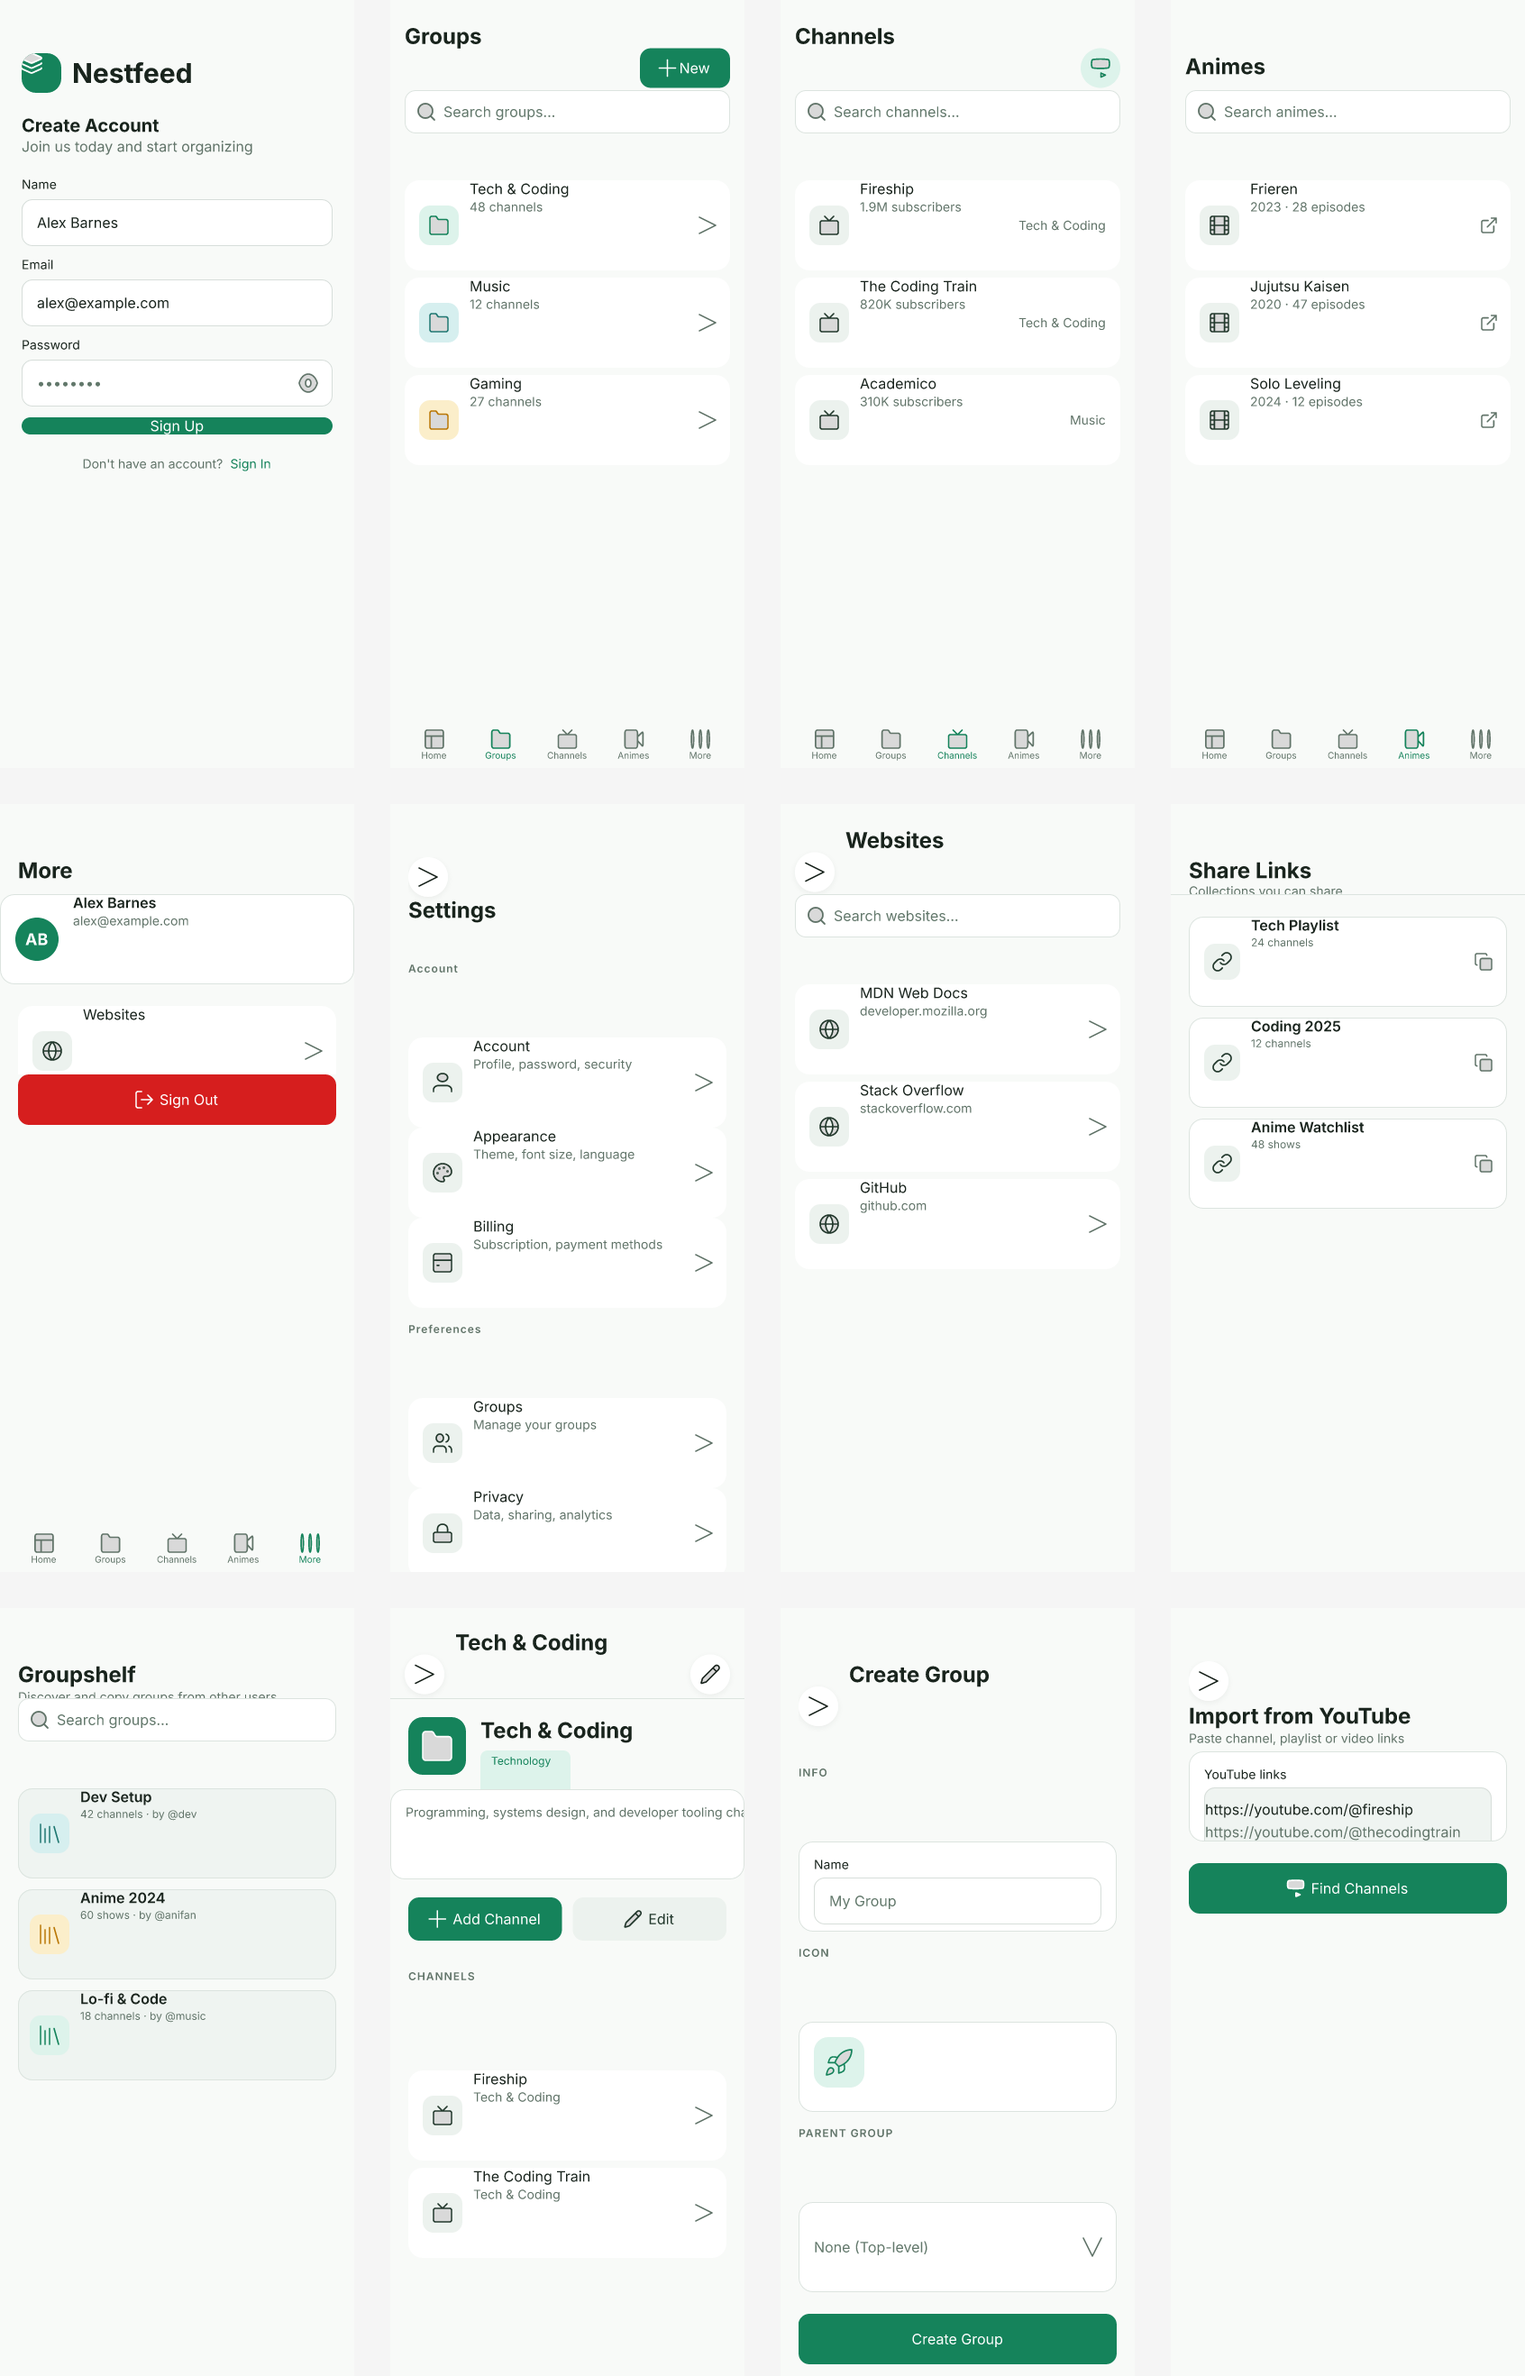
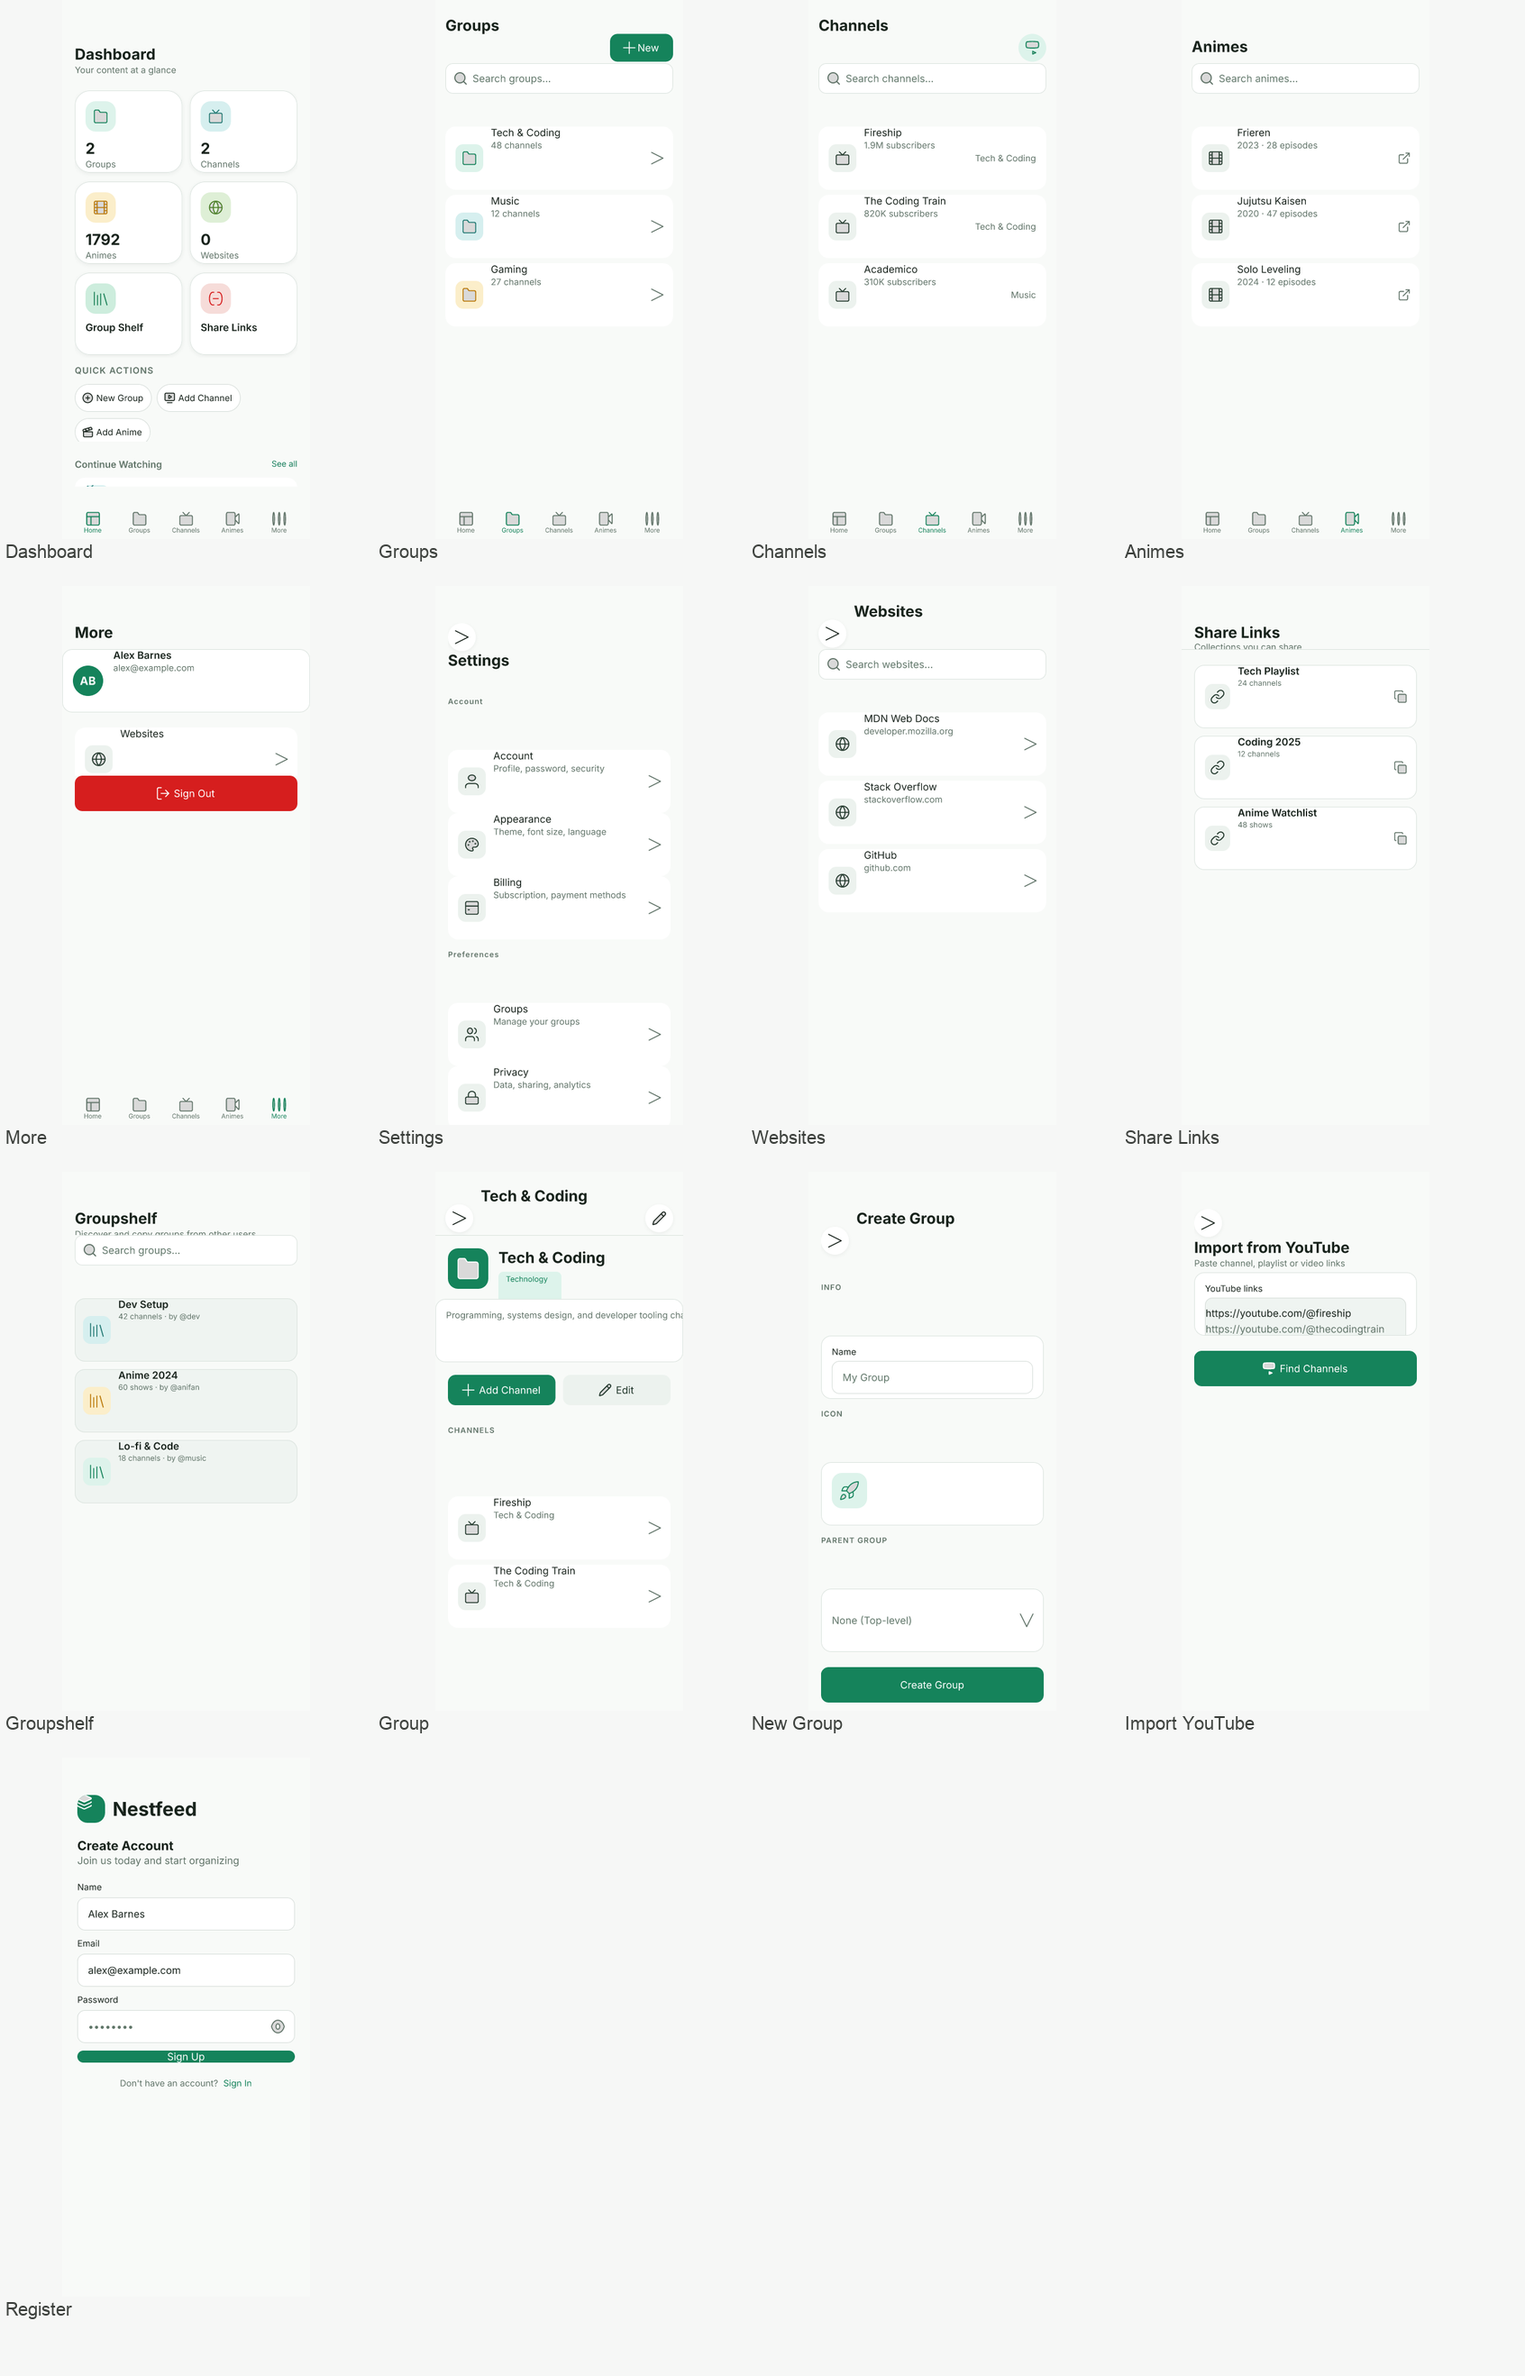
fix(ui): Dashboard tab bar in-viewport; rebuild preview from export
Validated the .figcraft (source of truth) across all 13 screens:
- Dashboard: content frame was 900px (fill) with a stale min_h, pushing the
  tab bar to y=900 (off the 852 viewport). Bounded it to 769px (852-83) + clip,
  matching the other 4 tabs. Quick-actions row no longer bottom-clipped.
- Register: clean (77px field groups, 12px rhythm).
- All 13 screens pass the geometry validator (overflow/overlap/dead-gap/grid).

Preview (groupify-app.png) rebuilt from the reliable 'export' path, not
'render': figcraft-cli 'render --page' serves a STALE contact-sheet cache
(Render 1 from the session's first state), so re-renders returned the old
12-screen Register-first sheet even though the file now has 13 frames
Dashboard-first. export is file-driven; composite the 13 tiles instead.
Documented the render-cache pitfall in the figcraft-ui skill.

diff --git a/.jcode/skills/figcraft-ui/SKILL.md b/.jcode/skills/figcraft-ui/SKILL.md
@@ -109,6 +109,34 @@ stored geometry. Then `export`/`render` is faithful.
 - After reparenting/copying, stale stored `width/height/transform` on the new
   node won't show until a re-bake.
 
+### PITFALL: `render` serves a STALE contact-sheet cache (build the preview from `export`)
+
+`figcraft-cli render <file> -o <png> --page "Page 1"` **caches the rendered
+page by its page NAME** and serves it back as long as the name is unchanged.
+Consequences seen in the wild:
+- Edit the file (add/reorder frames, fix a layout) and re-`render` → you get
+  the **old** bytes (sha-unstable but visually identical to a previous run).
+- The committed `groupify-app.png` showed a 12-screen sheet with **Register
+  first and Dashboard missing**, even though `document.json` had 13 frames in
+  Dashboard-first order. The cache predates the redesign.
+- `render --page <unique-name>` does **not** bust it (still stale) — the cache
+  isn't keyed on name-only in a way a rename defeats; do **not** rely on
+  renaming the page to force a fresh render.
+
+**Rule: build `groupify-app.png` from `export`, not `render`.** `export` is
+genuinely file-driven (different input → different bytes). Reliable pipeline:
+
+```
+# per-screen fresh exports (one png per top-level frame)
+figcraft-cli export groupify-app.figcraft -o <dir> --format png --scale 1
+# then composite the 13 tiles into groupify-app.png (Dashboard first), or just
+# keep the per-screen set. Avoid `render` for the committed preview.
+```
+
+`export --node <frameId>` is also fresh and is the right tool for single-screen
+proofs (e.g. verify the Dashboard alone). Use `render` only when you are
+certain its output cache is warm/absent (a truly fresh CLI state).
+
 ## Screens
 
 13 frames (393×852 each) on one page: Dashboard(2), Groups(83), Channels(133),
